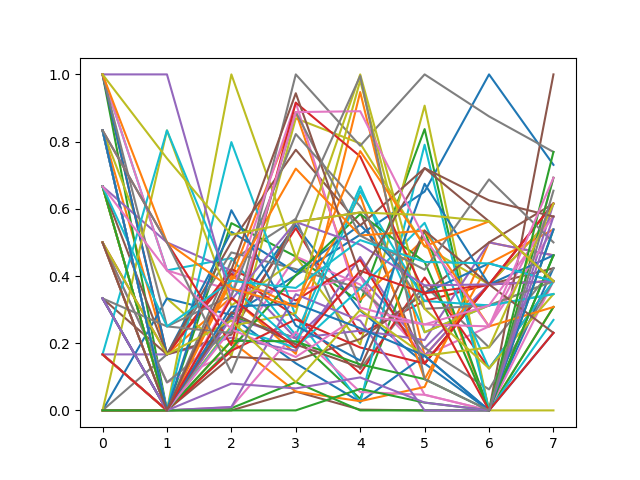
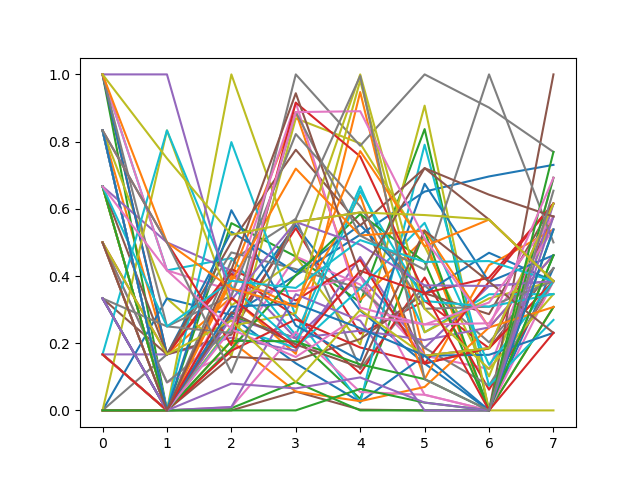
scatter plot

Changed region(s): [[0.6562, 0.1562, 0.875, 0.8438]]

diff --git a/my-visualization/my-visualization.py b/my-visualization/my-visualization.py
@@ -14,7 +14,14 @@ def swap(data, i, j):
     d[j] = tmp
 
 #%%
-data = np.loadtxt('dataset.csv', delimiter=",", skiprows=1, usecols=(1,2,3,4,5,6,7,8))
+import pandas as pd
+master_data = pd.read_csv('dataset.csv')
+use_data = master_data.drop("Date", axis=1).drop("Diary", axis=1)
+use_data.head()
+
+
+#%%
+data = np.array(use_data)
 for i in range(len(data[0])):
   data.T[i] = min_max(data.T[i])
 data
@@ -24,6 +31,14 @@ import matplotlib.pyplot as plt
 swap(data, 1, 2)
 for d in data:
   plt.plot(d)
+plt.savefig('figure.png')
 
 #%%
-plt.savefig('figure.png')
+# とりあえず散布図行列を作ってみる
+import seaborn as sns
+import pandas as pd
+
+# kind="reg" でliner regression
+# https://seaborn.pydata.org/generated/seaborn.pairplot.html
+g = sns.pairplot(use_data, kind="reg")
+plt.savefig('pairplot.png')
